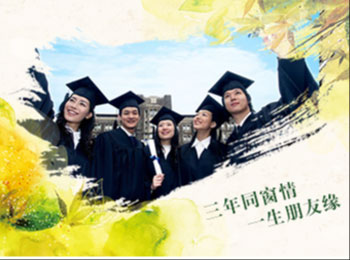
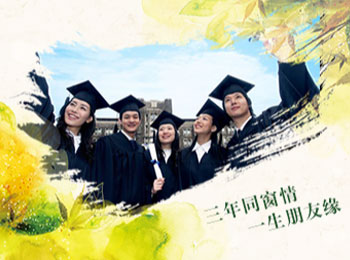
modified

diff --git a/src/css/makebook.css b/src/css/makebook.css
@@ -5612,6 +5612,11 @@
 	background-color: #fff;
 	overflow: hidden;
 }
+.makebook_choosetype_wrapper:after{
+	content: '';
+	display: block;
+	margin: 20px 0;
+}
 .makebook_choosetype_wrapper>ul>li{
 	width: 350px;
 	box-shadow: 0 0 10px #999;
@@ -5624,6 +5629,7 @@
 .makebook_choosetype_wrapper .bookcover{
 	position: relative;
 	overflow: hidden;
+	height: 260px;
 }
 .makebook_choosetype_wrapper .bookcover div{
 	width: 100%;
@@ -5677,7 +5683,7 @@
 	min-width: 70px;
 	border-radius: 15px;
 	border: 1px solid #aaa;
-	font-size: 18px;
+	font-size: 16px;
 	color: #aaa;
 	text-align: center;
 }
